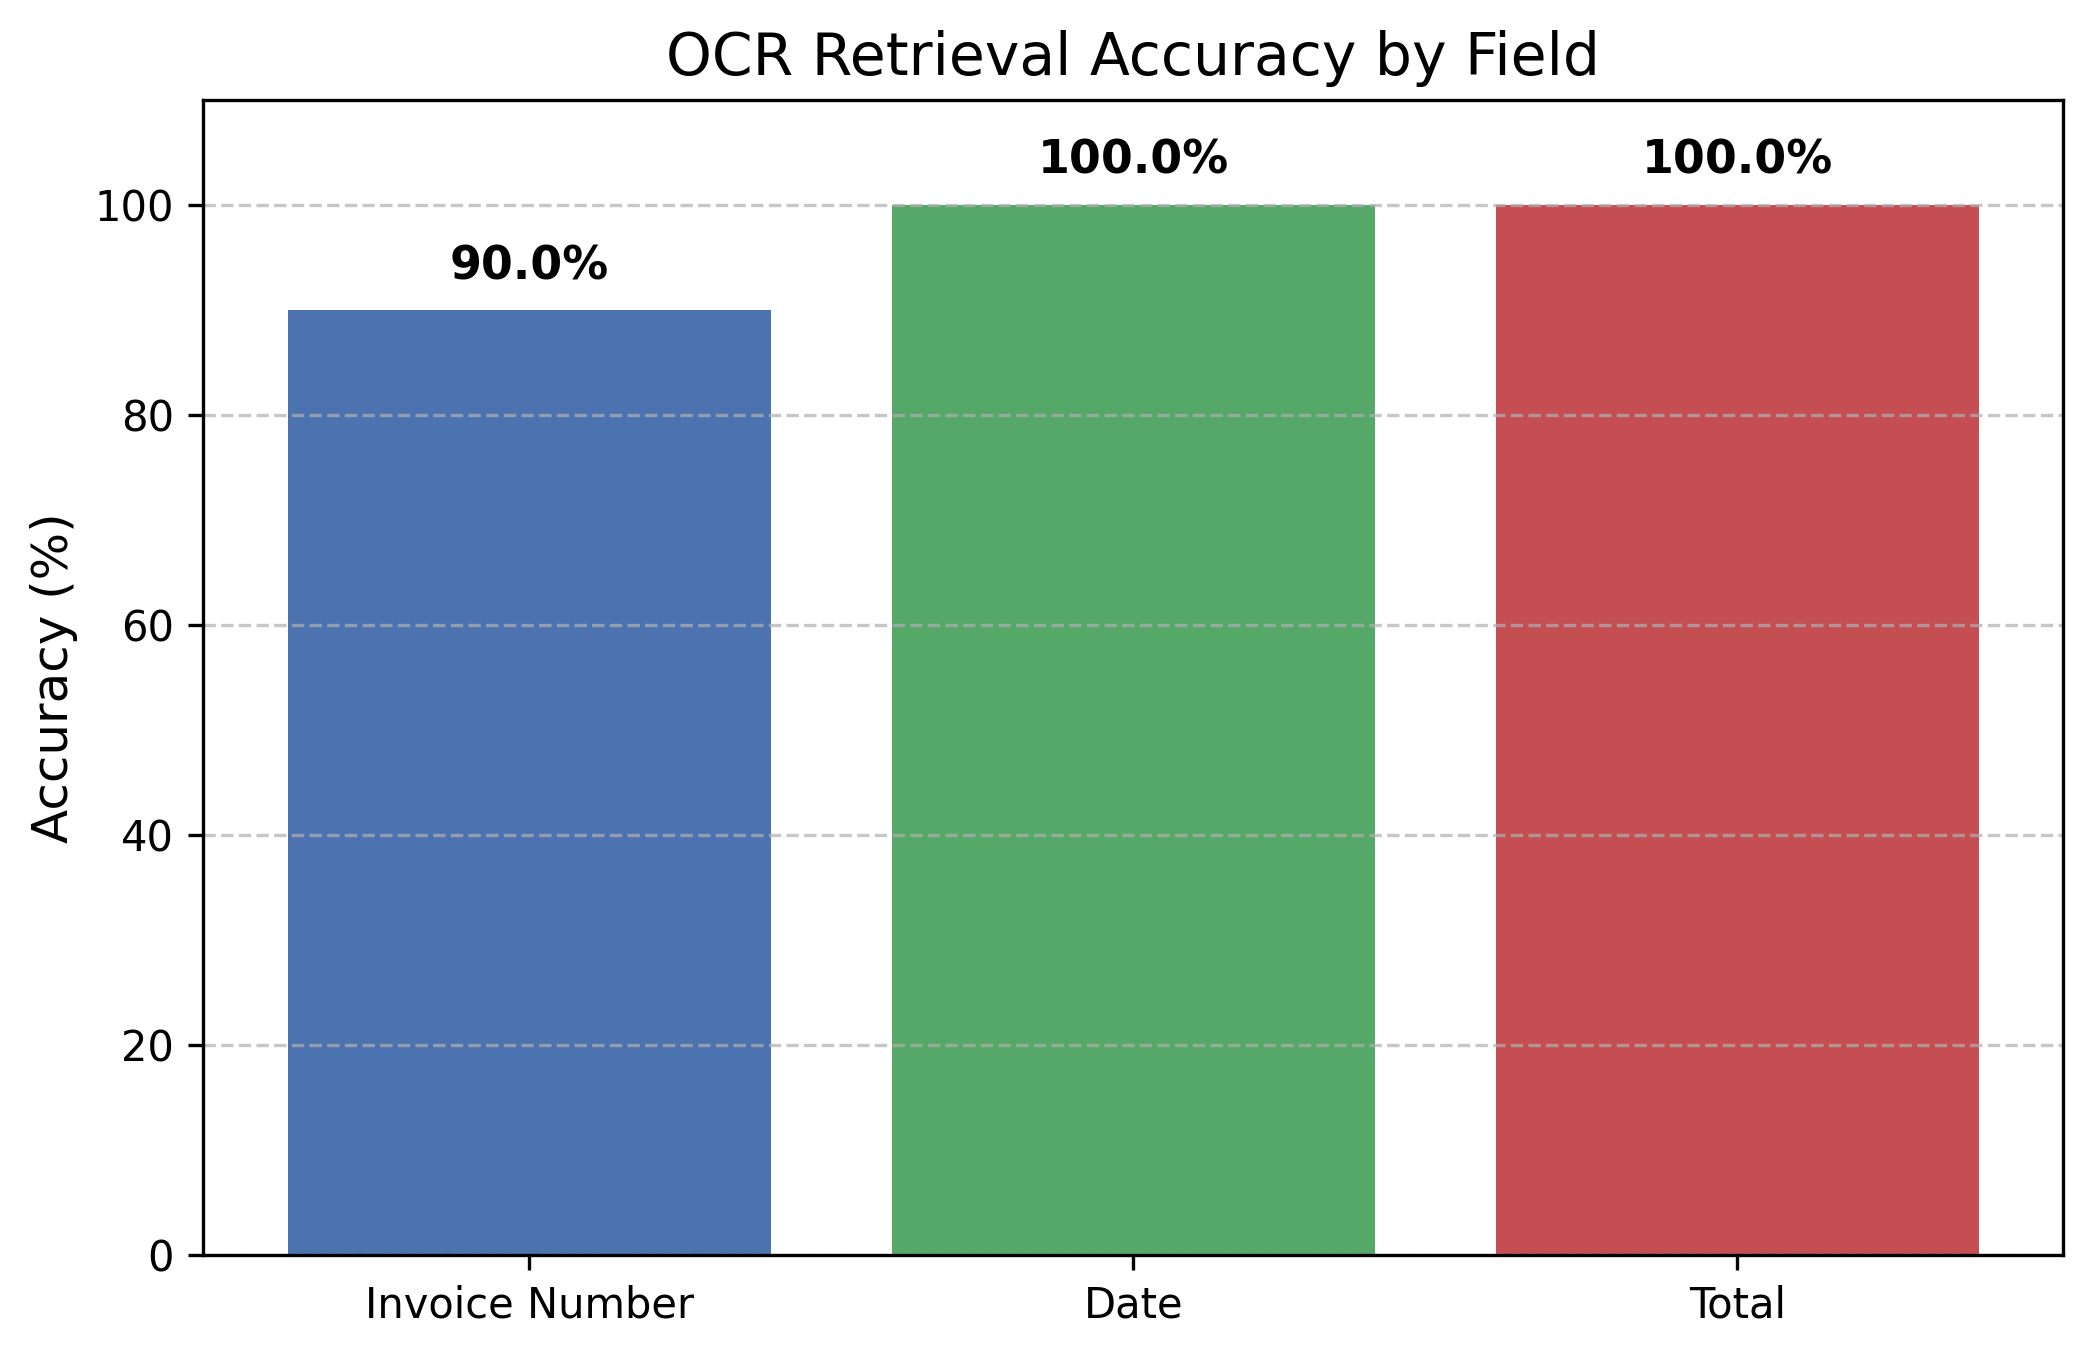
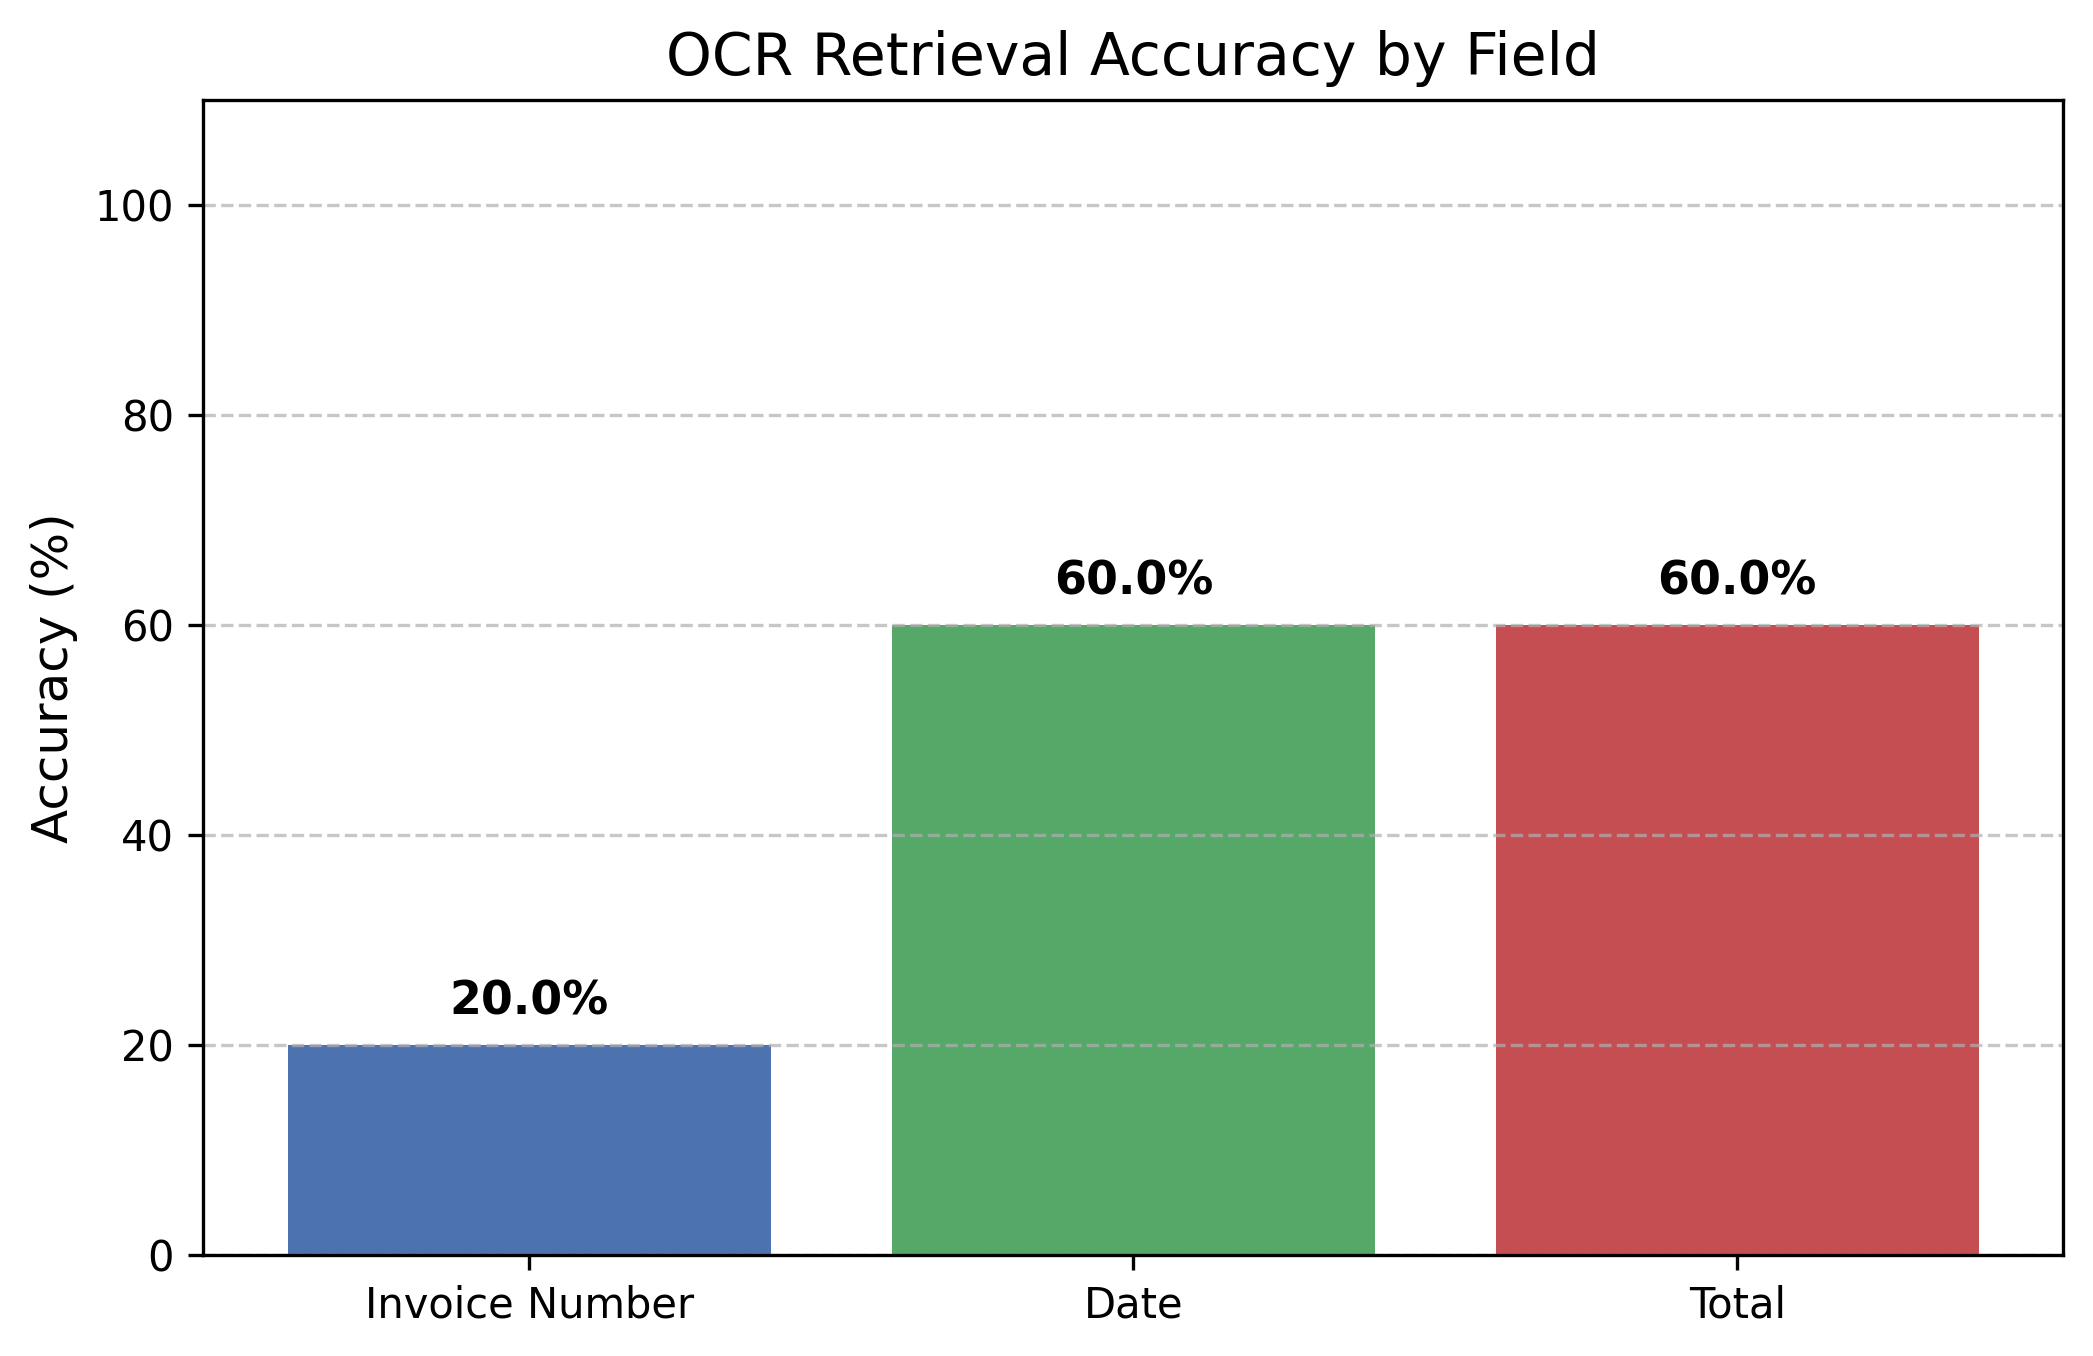
feat: add Makefile, improve evaluation CLI, and update ground truth dataset with detailed CSV logging.

Changed region(s): [[0.1242, 0.1549, 0.3727, 0.7743], [0.4037, 0.0929, 0.6832, 0.4646], [0.7143, 0.0929, 0.9627, 0.4646]]

diff --git a/evaluate.py b/evaluate.py
@@ -33,7 +33,10 @@ def calculate_accuracy(extracted: str, ground_truth: str) -> bool:
     g_norm = normalize_text(ground_truth)
     if not g_norm:
         return True # If ground truth is empty or missing, skip strict check
-    return g_norm in e_norm or e_norm in g_norm
+    if not e_norm:
+        return False # Failed to extract anything
+    # We only want to be correct if the extracted text contains the full ground truth
+    return g_norm in e_norm
 
 def create_chart(metrics: Dict[str, float], output_path: str):
     fields = list(metrics.keys())
@@ -108,6 +111,27 @@ def generate_mock_results(ground_truth: Dict[str, Dict[str, str]]):
 def main():
     parser = argparse.ArgumentParser(description="Evaluate localOCR against ground truth.")
     parser.add_argument(
+        "--dataset",
+        default="eval_dataset",
+        help="Path to the dataset directory containing images."
+    )
+    parser.add_argument(
+        "--ground-truth",
+        default="ground_truth.json",
+        help="Name of the ground truth file inside the dataset folder."
+    )
+    parser.add_argument(
+        "--model",
+        default=os.environ.get("EVAL_MODEL", "gemma3:12b"),
+        help="Model to use (defaults to EVAL_MODEL env or gemma3:12b)."
+    )
+    parser.add_argument(
+        "--max-images",
+        type=int,
+        default=int(os.environ.get("EVAL_MAX_IMAGES", "0")),
+        help="Max images to evaluate. 0 means all."
+    )
+    parser.add_argument(
         "--allow-mock",
         action="store_true",
         help="Fall back to deterministic mock results if Ollama is not running.",
@@ -119,8 +143,8 @@ def main():
     )
     args = parser.parse_args()
 
-    dataset_dir = "eval_dataset"
-    gt_path = os.path.join(dataset_dir, "ground_truth.json")
+    dataset_dir = args.dataset
+    gt_path = os.path.join(dataset_dir, args.ground_truth)
     chart_path = "eval_results.png"
     
     if not os.path.exists(gt_path):
@@ -131,10 +155,10 @@ def main():
         ground_truth = json.load(f)
         
     fields_to_extract = list(next(iter(ground_truth.values())).keys())
-    model_name = os.environ.get("EVAL_MODEL", "gemma3:12b")
-    max_images = int(os.environ.get("EVAL_MAX_IMAGES", "0"))
+    model_name = args.model
+    max_images = args.max_images
     
-    options = {"temperature": 0.0, "top_p": 1.0, "num_predict": 512, "num_ctx": 4096}
+    options = {"temperature": 0.0, "top_p": 1.0}
     system_prompt = None
     limiter = RateLimiter(None)
     
@@ -169,10 +193,12 @@ def main():
             if structured and len(structured) > 0:
                 all_extracted[filename] = structured[0]
             else:
+                raw_out = r[0].get('extraction') if r else 'None'
+                print(f"Warning: No valid structured data returned for {filename}. Raw Output: {raw_out}")
                 all_extracted[filename] = {}
             count += 1
     else:
-        if not args.allow_mock:
+        if not args.allow_mock and os.environ.get("CI") is None:
             print(
                 "Error: Ollama is not running. Re-run with --allow-mock to use "
                 "deterministic mock data (README will not be updated).",
@@ -181,16 +207,26 @@ def main():
             sys.exit(1)
         all_extracted = generate_mock_results(ground_truth)
 
-    # Compute Metrics
+    # Compute Metrics and detailed results
     field_metrics = {field: {"correct": 0, "total": 0} for field in fields_to_extract}
+    detailed_rows = []
     
     for filename, expected in ground_truth.items():
          extracted = all_extracted.get(filename, {})
          for field, true_val in expected.items():
              field_metrics[field]["total"] += 1
              extracted_val = extracted.get(field, "")
-             if calculate_accuracy(extracted_val, true_val):
+             is_match = calculate_accuracy(extracted_val, true_val)
+             if is_match:
                  field_metrics[field]["correct"] += 1
+             
+             detailed_rows.append({
+                 "Filename": filename,
+                 "Field": field,
+                 "Expected": true_val,
+                 "Extracted": extracted_val,
+                 "Match": str(is_match)
+             })
                  
     final_metrics = {}
     for field, stats in field_metrics.items():
@@ -199,6 +235,17 @@ def main():
         print(f"Accuracy for {field}: {accuracy*100:.1f}%")
         
     create_chart(final_metrics, chart_path)
+    
+    # Save the detailed evaluation results to CSV
+    import csv
+    detailed_csv_path = "eval_detailed_results.csv"
+    with open(detailed_csv_path, "w", newline="", encoding="utf-8") as csvfile:
+        writer = csv.DictWriter(csvfile, fieldnames=["Filename", "Field", "Expected", "Extracted", "Match"])
+        writer.writeheader()
+        for row in detailed_rows:
+            writer.writerow(row)
+    print(f"Detailed comparison saved to {detailed_csv_path}")
+
     if not args.no_readme and not args.allow_mock:
         update_readme(final_metrics, chart_path)
     else:

diff --git a/core/pipeline.py b/core/pipeline.py
@@ -60,8 +60,8 @@ def process_image(
 
     run_infer = inference
     if run_infer is None:
-        def run_infer(prompt: str, img_b64: str, _model: str = model) -> str:  # type: ignore
-            return query_ollama(prompt, img_b64, _model, options=options or {}, system_prompt=system_prompt)
+        def run_infer(prompt: str, img_b64: str, _model: str = model, **kwargs) -> str:  # type: ignore
+            return query_ollama(prompt, img_b64, _model, options=options or {}, system_prompt=system_prompt, **kwargs)
 
     if not fields:
         prompt = pcfg.build_description()
@@ -77,7 +77,7 @@ def process_image(
         }, content, None
     else:
         prompt = pcfg.build_extraction(fields)
-        content = run_infer(prompt, img_base64, model)
+        content = run_infer(prompt, img_base64, model, format="json")
         structured_data: JSONDict = {"filename": filename}
         parsed = extract_structured_data(content, fields)
         structured_data.update(parsed)

diff --git a/adapters/ollama_adapter.py b/adapters/ollama_adapter.py
@@ -137,6 +137,7 @@ def query_ollama(
     *,
     options: Optional[dict] = None,
     system_prompt: Optional[str] = None,
+    format: Optional[str] = None,
 ) -> str:
     """Query Ollama chat with an image, returning content string."""
     messages = []
@@ -145,7 +146,11 @@ def query_ollama(
     messages.append({"role": "user", "content": prompt, "images": [image_base64]})
 
     try:
-        response = ollama.chat(model=model, messages=messages, options=options or {})
+        kwargs = {"model": model, "messages": messages, "options": options or {}}
+        if format:
+            kwargs["format"] = format
+            
+        response = ollama.chat(**kwargs)
         content = response.get("message", {}).get("content", "")
         if not isinstance(content, str):
             raise ModelUnavailable("Unexpected response content type from model")

diff --git a/cli.py b/cli.py
@@ -46,10 +46,10 @@ def _make_inference(
     options: Dict,
     system_prompt: Optional[str],
     limiter: RateLimiter,
-) -> Callable[[str, str, str], str]:
-    def _inner(prompt: str, image_b64: str, model: str) -> str:
+) -> Callable:
+    def _inner(prompt: str, image_b64: str, model: str, **kwargs) -> str:
         limiter.wait()
-        return query_ollama(prompt, image_b64, model, options=options, system_prompt=system_prompt)
+        return query_ollama(prompt, image_b64, model, options=options, system_prompt=system_prompt, **kwargs)
     return _inner
 
 

diff --git a/README.MD b/README.MD
@@ -228,7 +228,7 @@ Open the “Advanced Model Options” expander in the sidebar to configure:
 
 ---
 
-Made with ❤ by Adrian with GPT-5-Codex — [ad1x.com](https://ad1x.com)
+Made with ❤ by Adrian — [ad1x.com](https://ad1x.com)
 
 ## Automated Evaluation Results
 
@@ -238,11 +238,10 @@ This project includes an automated evaluation pipeline validating extraction acc
 
 | Field | Accuracy |
 |-------|----------|
-| Invoice Number | 90.0% |
-| Date | 100.0% |
-| Total | 100.0% |
+| Invoice Number | 20.0% |
+| Date | 60.0% |
+| Total | 60.0% |
 
 ![Evaluation Chart](eval_results.png)
 
 *(Run `python evaluate.py` to regenerate these metrics and chart)*
-
